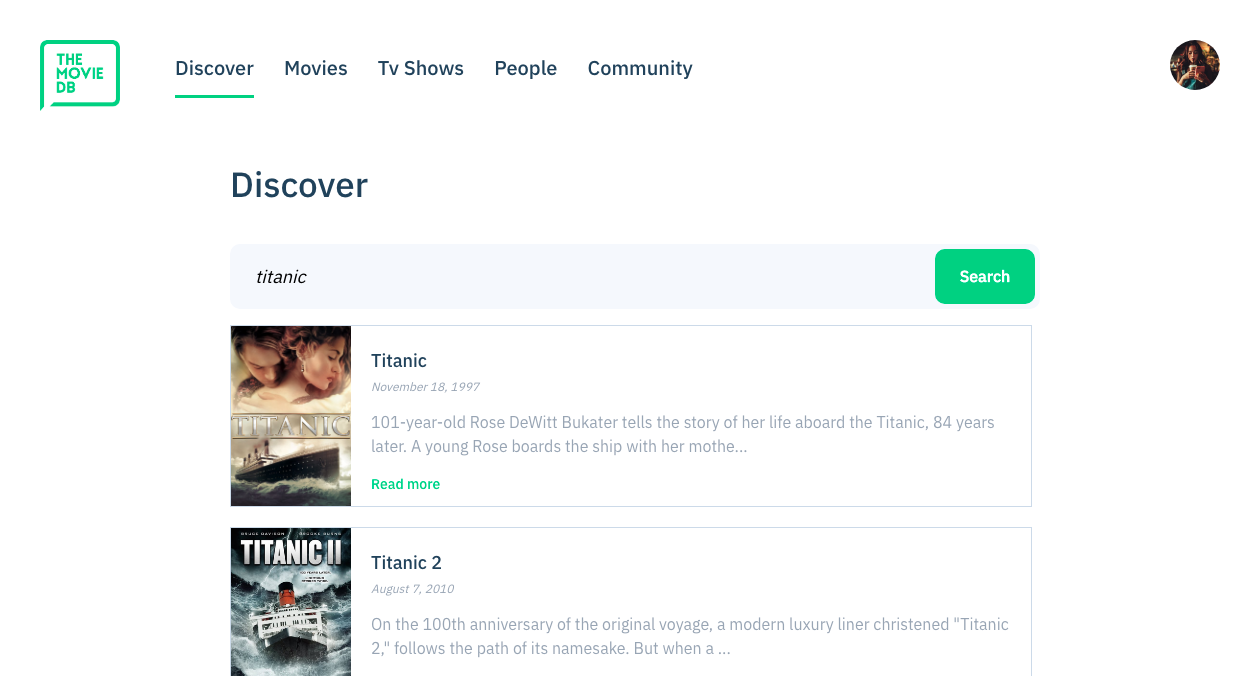
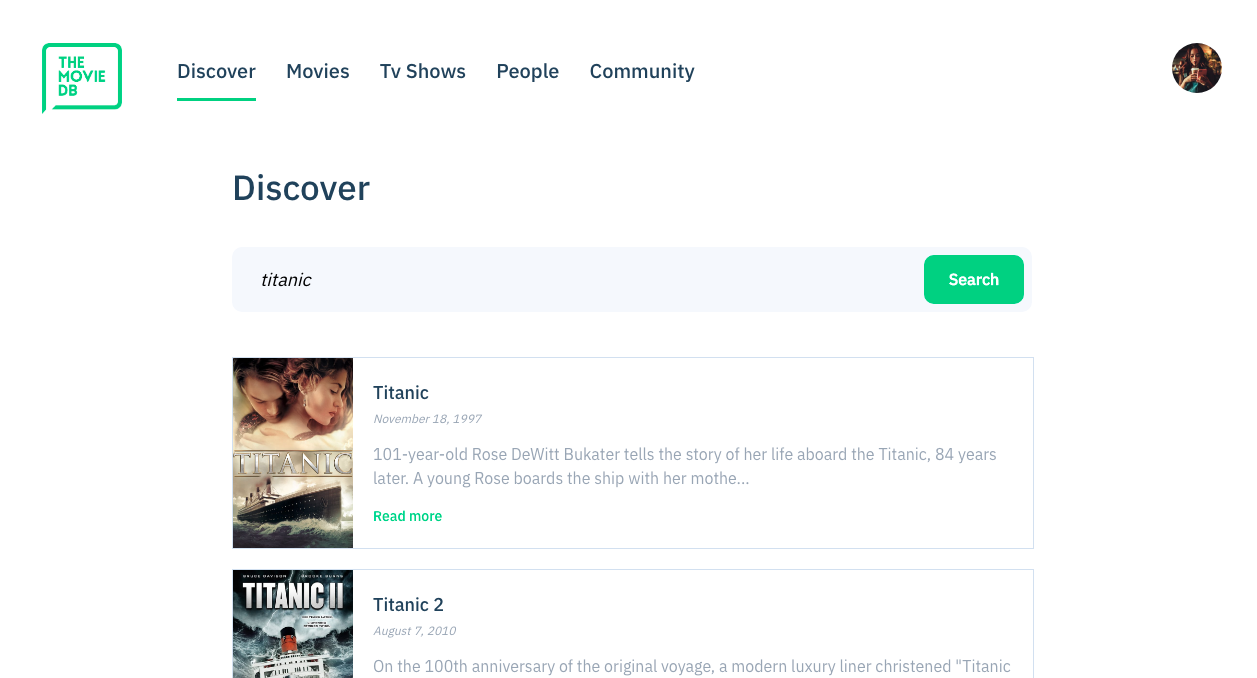
fix styles

diff --git a/src/styles/app.scss b/src/styles/app.scss
@@ -66,13 +66,15 @@ body {
 .section__search{
   .form{
     background-color: #f5f8fe;
+    box-sizing: border-box;
     width: 100%;
-    height: rem(55);
+    height: rem(65);
     border-radius: rem(10);
-    padding: rem(5);
+    padding: rem(8);
     display: flex;
     flex-direction: row;
     justify-content: space-between;
+    margin-bottom: rem(45);
     &__input{
       display: inline-block;
       height: 100%;
@@ -104,9 +106,9 @@ body {
 .li__search{
   display: flex;
   flex-direction: row;
-  border: rem(1) solid #cddaeb;
+  border: rem(1) solid #d3e0f2;
   width: 100%;
-  height:rem(180);
+  height:rem(190);
   margin-bottom: rem(20);
   transition: height 0.5s ease 0s;
   .img__container{
